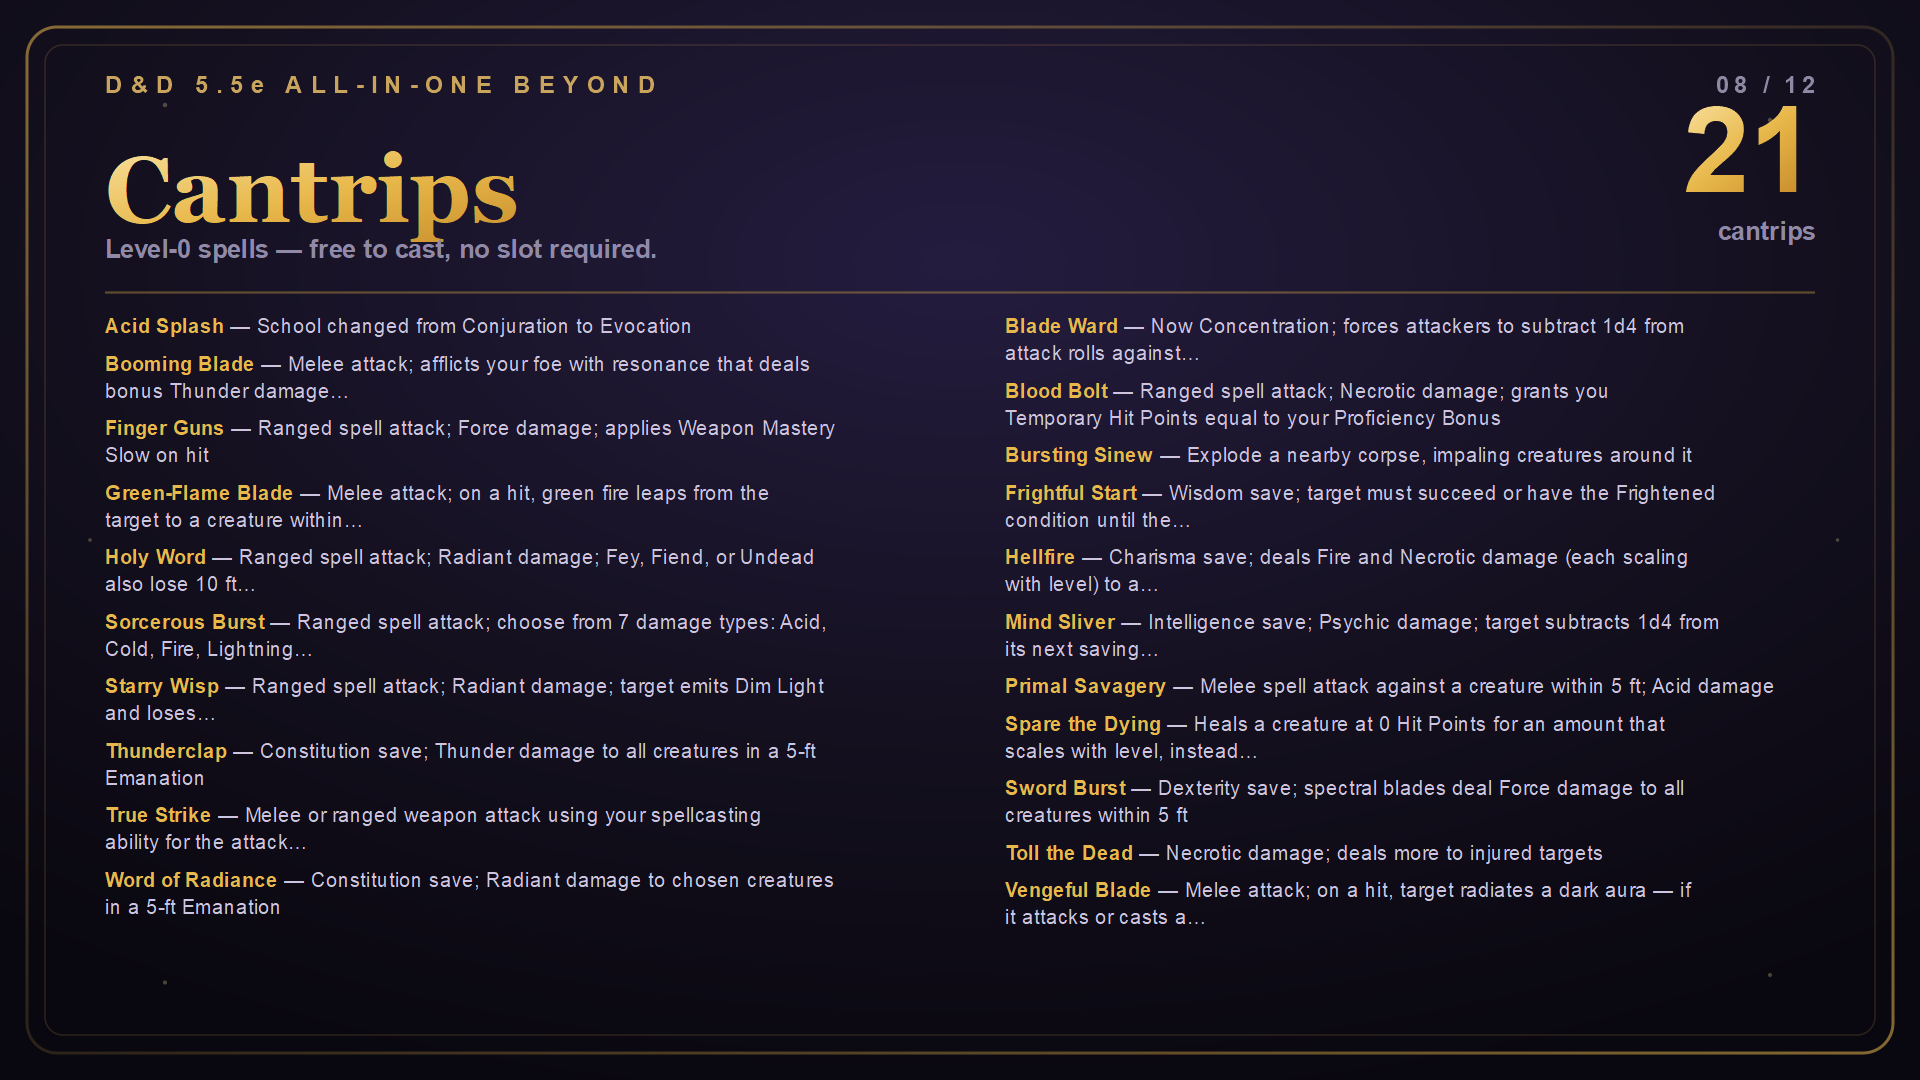
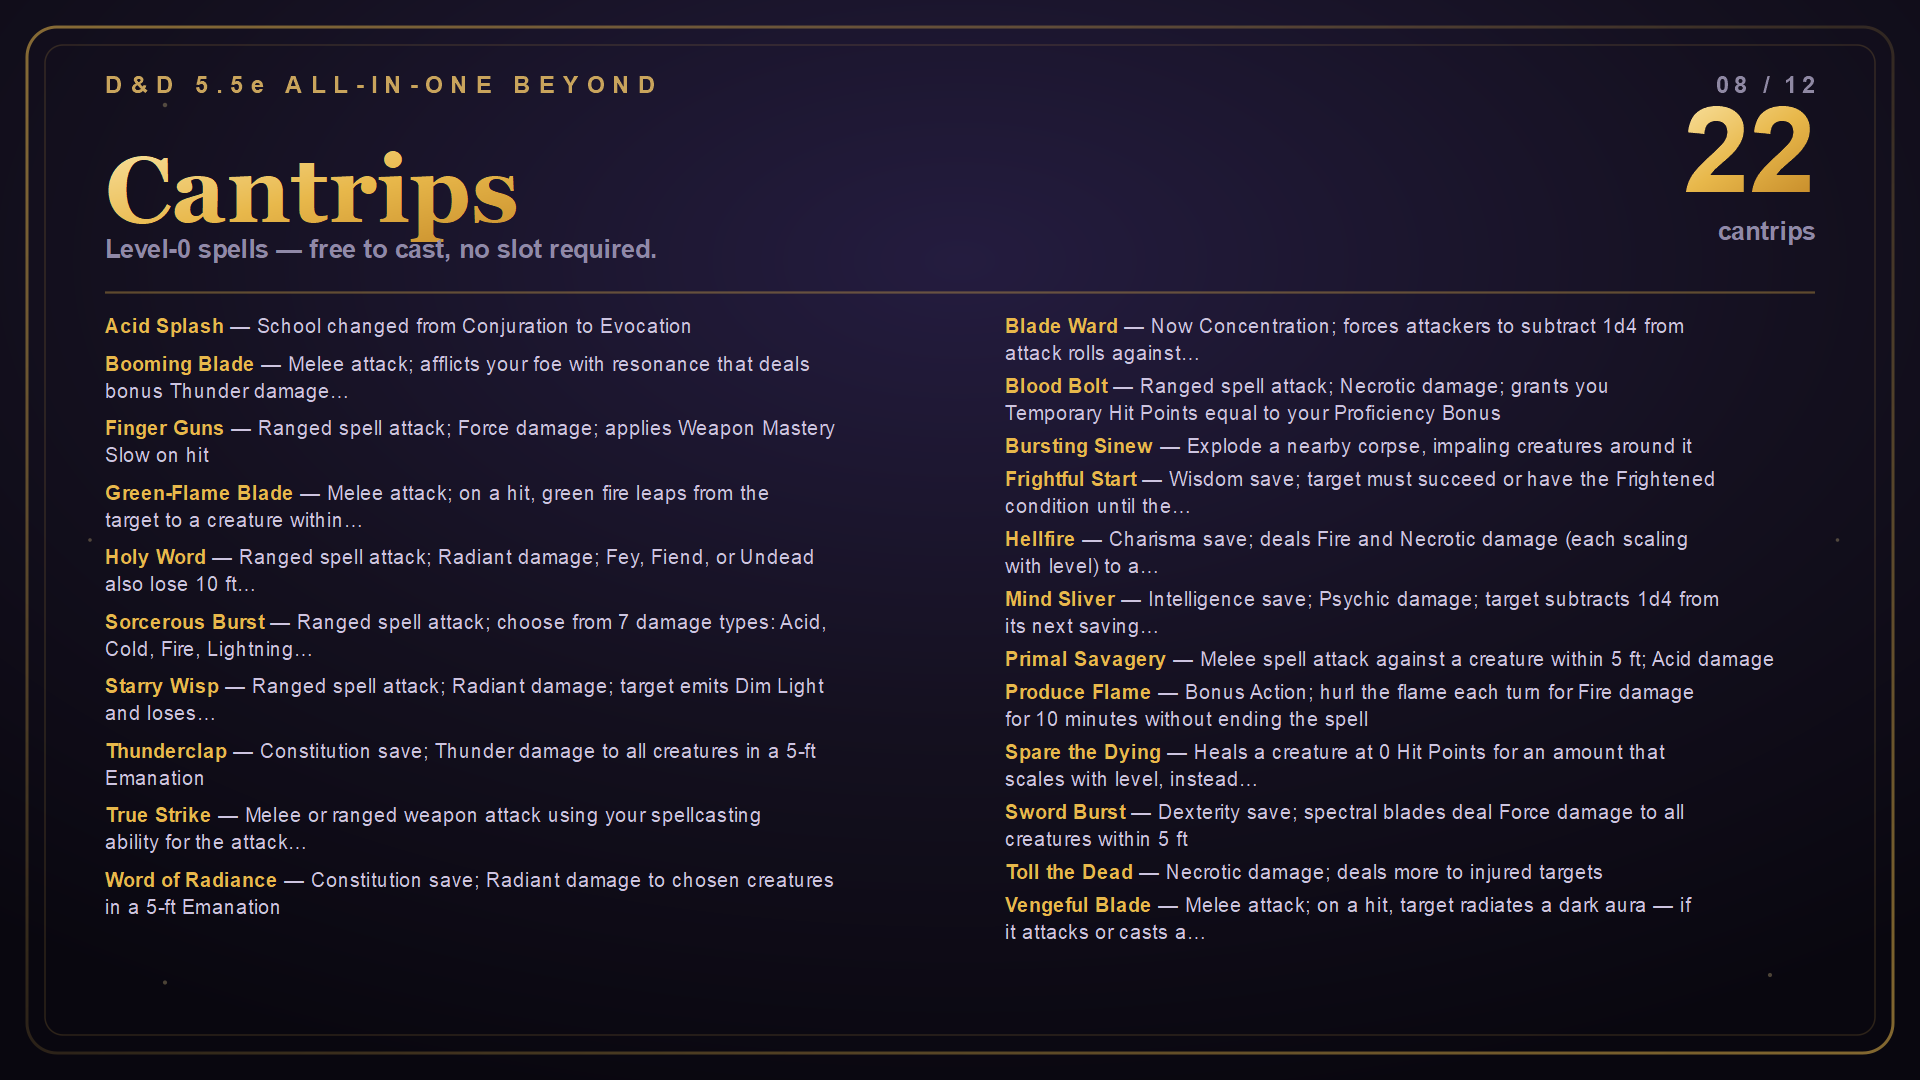
docs(spells): list Produce Flame among the revised spells
Add Produce Flame to the cantrip lists in the three READMEs and the right
column of the cantrip slide, tightening that column's spacing to fit, and
count 121 new and revised spells on the thumbnail.

Changed region(s): [[0.5, 0.3361, 0.9375, 0.8861], [0.9062, 0.0917, 0.9375, 0.1833]]

diff --git a/README_Modio.html b/README_Modio.html
@@ -85,7 +85,7 @@
 
 <h3>Cantrips</h3>
 
-<p>Acid Splash, Blade Ward, Blood Bolt, Booming Blade, Bursting Sinew, Finger Guns, Frightful Start, Green-Flame Blade, Hellfire, Holy Word, Mind Sliver, Primal Savagery, Sorcerous Burst, Spare the Dying, Starry Wisp, Sword Burst, Thunderclap, Toll the Dead, True Strike, Vengeful Blade, Word of Radiance.</p>
+<p>Acid Splash, Blade Ward, Blood Bolt, Booming Blade, Bursting Sinew, Finger Guns, Frightful Start, Green-Flame Blade, Hellfire, Holy Word, Mind Sliver, Primal Savagery, Produce Flame, Sorcerous Burst, Spare the Dying, Starry Wisp, Sword Burst, Thunderclap, Toll the Dead, True Strike, Vengeful Blade, Word of Radiance.</p>
 
 <h3>Leveled Spells</h3>
 <ul>

diff --git a/README.md b/README.md
@@ -95,7 +95,7 @@ The lists below cover new and revised spells only. The wiki has the complete per
 
 ### Cantrips
 
-Acid Splash, Blade Ward, Blood Bolt, Booming Blade, Bursting Sinew, Finger Guns, Frightful Start, Green-Flame Blade, Hellfire, Holy Word, Mind Sliver, Primal Savagery, Sorcerous Burst, Spare the Dying, Starry Wisp, Sword Burst, Thunderclap, Toll the Dead, True Strike, Vengeful Blade, Word of Radiance.
+Acid Splash, Blade Ward, Blood Bolt, Booming Blade, Bursting Sinew, Finger Guns, Frightful Start, Green-Flame Blade, Hellfire, Holy Word, Mind Sliver, Primal Savagery, Produce Flame, Sorcerous Burst, Spare the Dying, Starry Wisp, Sword Burst, Thunderclap, Toll the Dead, True Strike, Vengeful Blade, Word of Radiance.
 
 ### Leveled Spells
 
